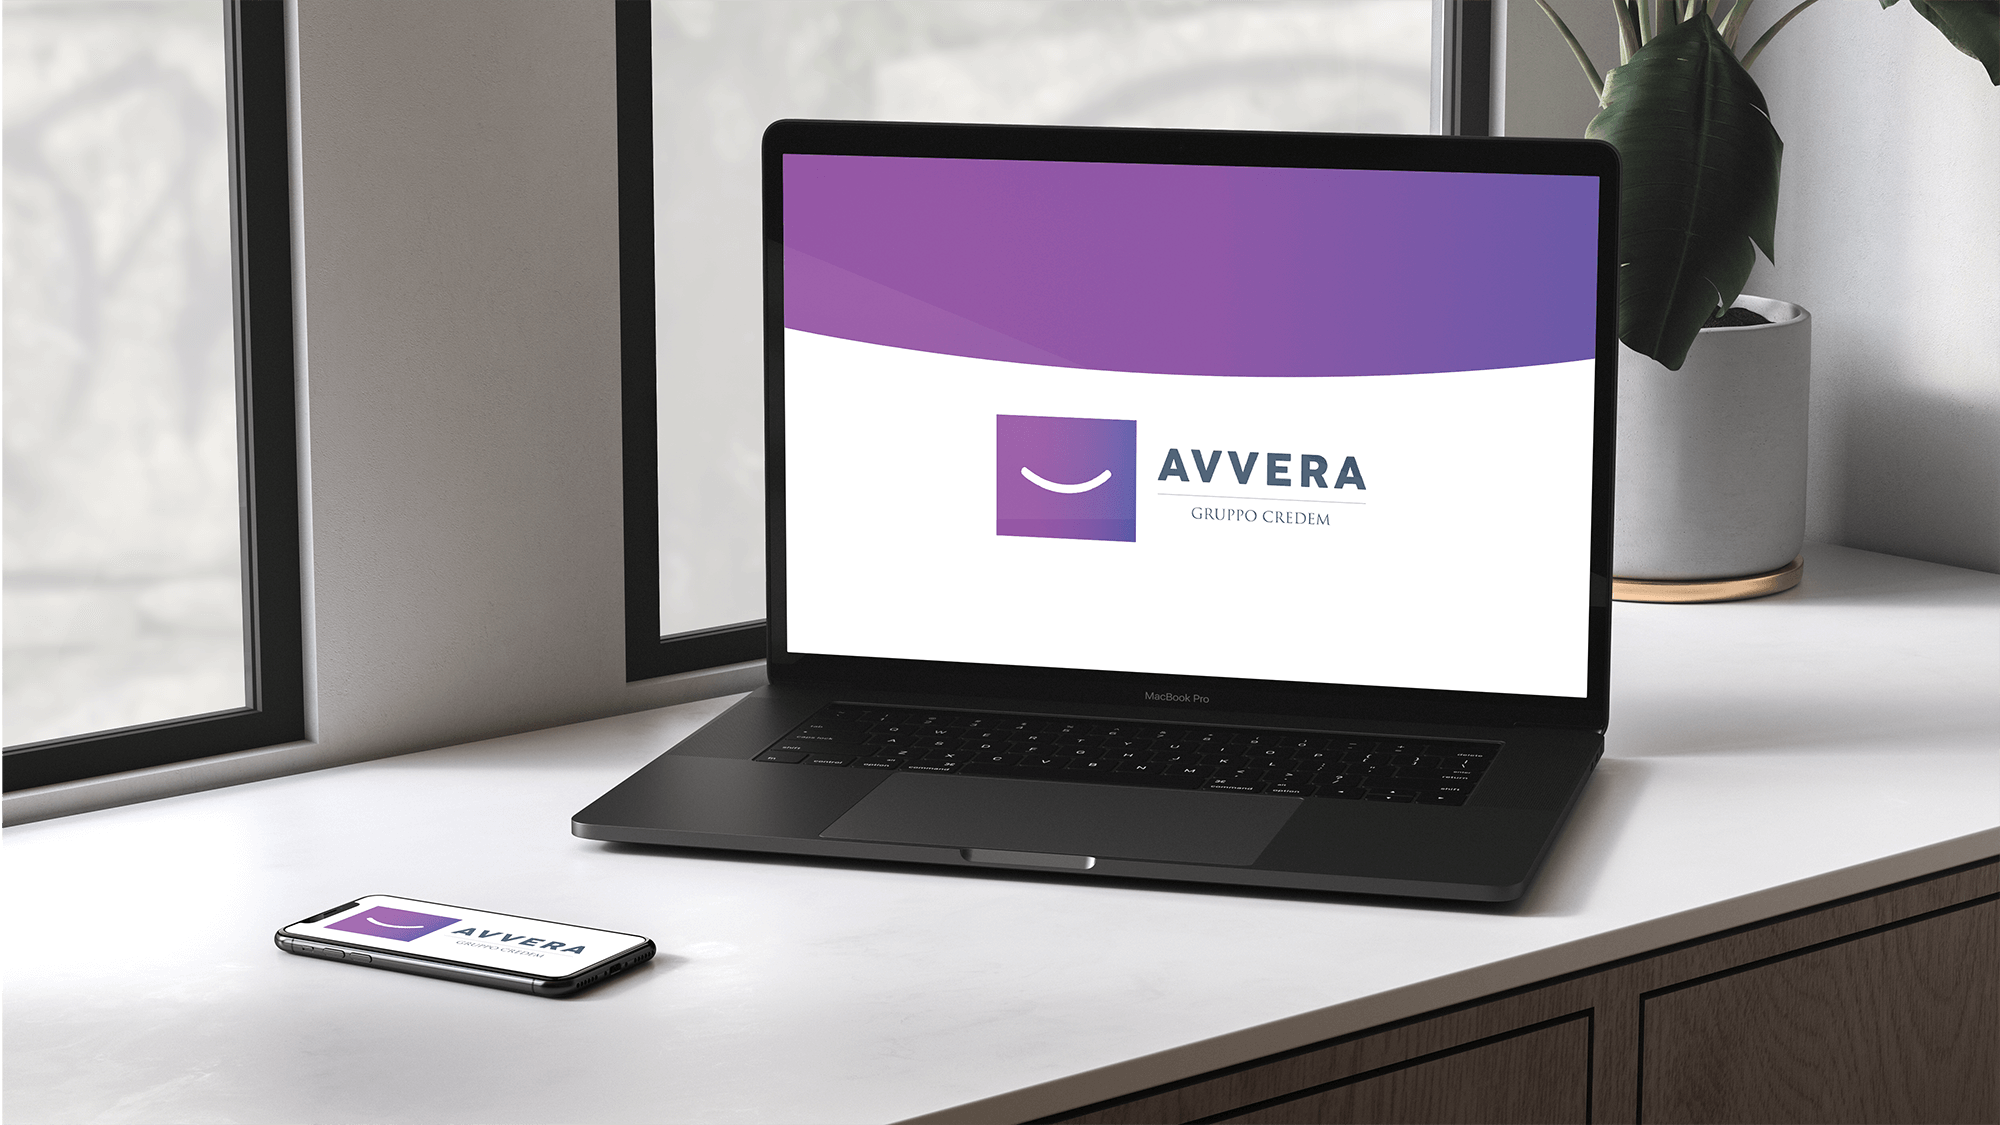
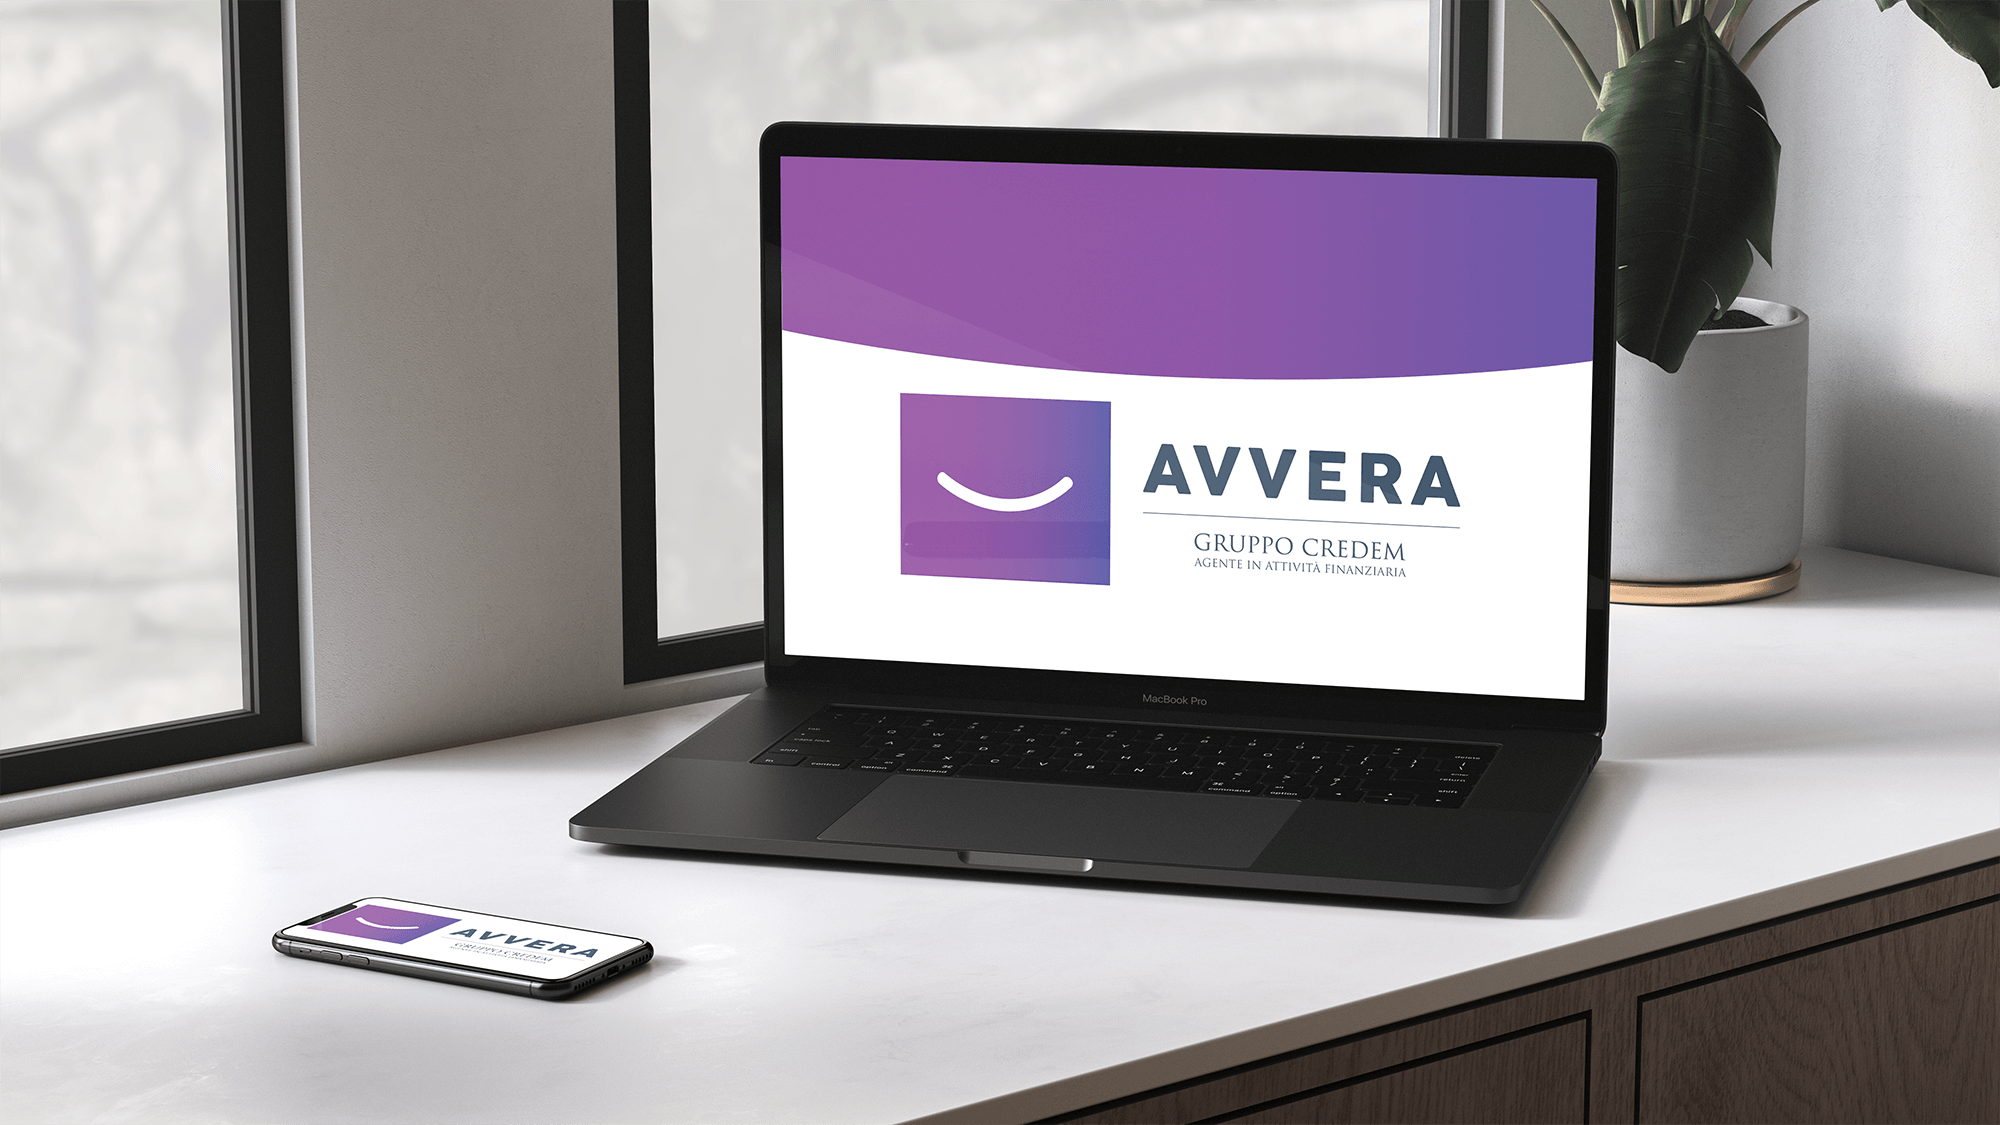
22102020-13.05

diff --git a/index.html b/index.html
@@ -250,7 +250,7 @@
                     adatta a te. <br>
                     Potrai contare su tassi tra i più bassi del mercato e sulla professionalità di un agente esperto.
                     Metto a tua disposizione la mia esperienza, acquisita in anni di professione e ti seguirò
-                    durante ogni fase della pratica. <br>Contattami per una consulenza o richiedi un preventivo
+                    durante ogni fase della pratica. <br>Contattami per una consulenza o richiedi un preventivo.
                 </h2>
             </div>
             <div class="container-contatti">
@@ -295,7 +295,7 @@
 
 
                     <p>* Selezionando Invia, il richiedente esprime il proprio consenso al trattamento dei dati
-                        personali secondo <a data-modal-target="#modal">l'informativa sulla privacy (D.L.196/03)</a></p>
+                        personali secondo <a data-modal-target="#modal">l'informativa sulla privacy (D.L.196/03)</a>.<br><br> Inoltre il richiedente può consultare le nostre <a href="https://www.avverafinanziamenti.it/trasparenza/" target="_blank">regole sulla trasparenza Avvera.</a></p>
                 </form>
 
                 <!-- modal privacy-->
@@ -378,12 +378,30 @@
             </div>
         </section>
 
+        <!--trasparenza Avvera-->
+
+
+        <section class="trasparenza">
+            <div class="section-header">
+                <h1 class="section-heading">Trasparenza Avvera</h1>
+                <div class="underline"></div>
+            </div>
+
+            <div class="section-header">
+                <h2 class="section-heading-h2">Il gruppo Avvera ha a cuore la trasparenza dei propri utenti, è possibile consultare le regole e linee guida al seguente indirizzo:</h2>
+                <button><a href="https://www.avverafinanziamenti.it/trasparenza/" target="_blank">Trasparenza</a></button>
+            </div>
+        </section>
+
+
+
+
         <!--footer -->
 
         <footer class="footer">
             <div class="footer-content">
                 <div class="antonio">
-                    <p>- Antonio Annunziata, agente Avvera<br>
+                    <p>- Antonio Annunziata, agente in attività finanziaria<br>
                         - Iscrizione OAM n.A2223 <br>
                         - Cellulare: 328 845 5234 <br>
                         - Email: antonioannunziata@avverafinanziamenti.it <br>

diff --git a/css/style.css b/css/style.css
@@ -15,7 +15,6 @@
 html{
     font-size: 62.5%;
     overflow-x: hidden;
-    
 }
 
 .container{
@@ -23,7 +22,6 @@ html{
   padding: 0;
   background-image: url(../img/html.png);
   background-size: cover;
- 
 }
 
 hr{
@@ -61,7 +59,6 @@ hr{
   height: .3rem;
   background-image:url(../img/gradienteavvera.svg);
 }
-
 
 /*nav*/
 nav {
@@ -548,6 +545,32 @@ fieldset {
 	border:1px solid #999;
 }
   /*end contatti */
+  /* trasparenza Avvera*/
+  .trasparenza{
+    padding: 0 5rem 7rem 5rem;
+    color: rgb(0, 0, 0);
+  }
+  .trasparenza button{
+    cursor:pointer;
+    border:none;
+    background: url(../img/gradienteavvera.svg);
+    color:#FFF;
+    margin:2.5rem 0 5px;
+    padding:10px;
+    font-size:15px;
+  }
+
+  .trasparenza button:hover{
+    background:rgba(0, 0, 0, 0.822);
+	  -webkit-transition:background 0.3s ease-in-out;
+	  -moz-transition:background 0.3s ease-in-out;
+	  transition:background-color 0.3s ease-in-out;
+  }
+
+  .trasparenza a{
+   color: white;
+  }
+  /* end trasparenza Avvera*/
   /* footer */
   .footer {
     width: 100%;
@@ -555,6 +578,7 @@ fieldset {
     display: flex;
     color: black;
     height: 100%;
+    border-top: rebeccapurple 2px solid;
   }
   
   .footer-content {
@@ -606,8 +630,6 @@ fieldset {
     color: black;
   }
   /* end footer */
-
-  
   .scroll-btn {
     position: fixed;
     right: 5rem;
@@ -624,15 +646,7 @@ fieldset {
     border-radius: 0.3rem;
     
   }
-  
-
-
-
-
-
-
   /* -----------------------media----------------------- */
-
   @media (max-width: 1500px) {
    
      .contact-wrapper {
@@ -909,12 +923,7 @@ fieldset {
       opacity: 1;
   }
 }
-
-
-
-
 /* Modal Privacy*/
-
 .modal {
   position: fixed;
   top: 50%;
@@ -989,10 +998,6 @@ fieldset {
   pointer-events: all;
 }
 
-
-
-
-
 .modal2 {
   position: fixed;
   top: 50%;
@@ -1047,107 +1052,4 @@ fieldset {
   color: white;
   font-size: 4rem;
  }
-
-
-
-
-
-
-
-
-
-
-
-
-
-
-
-
-
-
-
-
-
-
-
-
-
-
-
-
-
-
-
-
-
-
-
-
-
-
-
-
-
-
-
-
-
-
-
-
-
-
-
-
-
-
-
-
-
-
-
-
-
-
-
-
-
-
-
-
-
-
-
-
-
-
-
-
-
-
-
-
-
-
-
-
-
-
-
-
-
-
-
-
-
-
-
-
-
-
-
-
-
-
-
 
